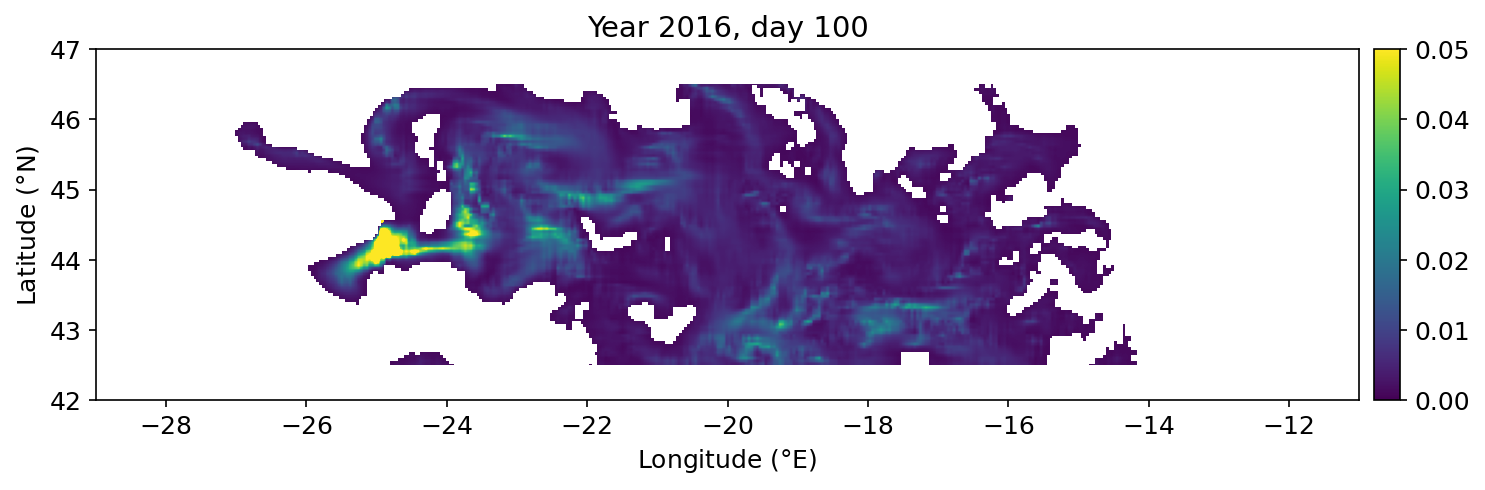
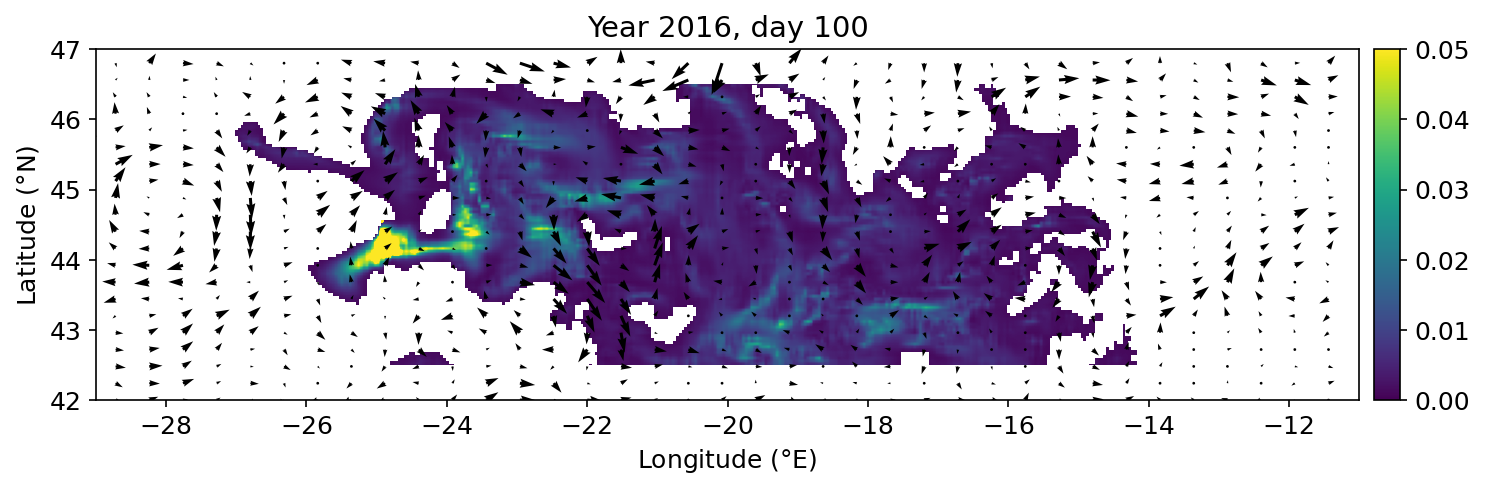
remake images

diff --git a/plotting/plot_image_fine_custom.py b/plotting/plot_image_fine_custom.py
@@ -10,7 +10,6 @@ sys.path.append(os.path.abspath(os.path.join(os.path.dirname(__file__), '..', 'l
 sys.path.append(os.path.abspath(os.path.join(os.path.dirname(__file__), '..', 'data')))
 sys.path.append(os.path.abspath(os.path.join(os.path.dirname(__file__), '..', '')))
 from library.functions import load_data, zipCoords
-
 # === Argument Parsing ===
 if len(sys.argv) != 10:
     print("Usage: python single_day_plot.py <year> <ndays> <dx> <dy> <dt> <nperday> <offset> <frame> <mode>")
@@ -33,18 +32,15 @@ walk_opacity = 10/frame  # Opacity of path lines
 # === Setup ===
 density_resolution = f'{dx}x{dy}_{dt}'
 matrix_cutoff = 0.001
-vmin, vmax = 0, 2
-title = "Only constant terms, day 100"
+vmin, vmax = 0, 0.05
 
 # === Load data ===
-metadata = load_data("pde_onlyDiffusion", year, days, density_resolution, 'metadata')
-paths, start_frames = load_data('discrete_onlyConstant', year, days, f'{walk_nperday}perday', 'allpositions')
+metadata = load_data("pde", year, days, density_resolution, 'metadata')
+paths, start_frames = load_data('discrete', year, days, f'{walk_nperday}perday', 'allpositions')
 processed_paths = [zipCoords(path) for path in paths]
-filename = "figures/special/rw_onlyConstant.png"
-
 
 # === Load matrix for the specific frame ===
-matrix = load_data("pde_onlyDiffusion", year, days, density_resolution, frame)[0]
+matrix = load_data("pde", year, days, density_resolution, frame)[0]
 y_min_display = 42.5
 y_max_display = 46.5
 label_fontsize = 12
@@ -62,7 +58,7 @@ cropped_matrix = matrix[row_start:row_end, :]
 masked_matrix = np.ma.masked_less(cropped_matrix, matrix_cutoff)
 
 # === Setup Plot ===
-fig, ax = plt.subplots(figsize=[10, 3.2], dpi=150)
+fig, ax = plt.subplots(figsize=[10, 2.8], dpi=150)
 ax.set_xlim(offset - 29, offset - 11)
 ax.set_ylim(42, 47)
 
@@ -74,15 +70,13 @@ cmap.set_bad(color='white')
 # === Plot density if requested ===
 if mode in {"pde", "both"}:
     divider = make_axes_locatable(ax)
-    cax = divider.append_axes("right", size="2%", pad=0.1)
+    #cax = divider.append_axes("right", size="2%", pad=0.1)
 
     density_img = ax.imshow(masked_matrix, origin='lower',
                             extent=[offset - 29, offset - 11, y_min_display, y_max_display],
                             aspect=1, vmin=vmin, vmax=vmax, cmap=cmap)
-    cbar = fig.colorbar(density_img, cax=cax)
-    cbar.ax.tick_params(labelsize=tick_fontsize)
-    # ax.plot(offset - 25, 44.5, 'ro')
-
+    # cbar = fig.colorbar(density_img, cax=cax)
+    # cbar.ax.tick_params(labelsize=tick_fontsize)
 
 # === Plot turtles if requested ===
 if mode in {"rw", "both"}:
@@ -106,20 +100,18 @@ if mode in {"rw", "both"}:
     ax.plot(offset - 25, 44.5, 'ro')
 
 # === Final touches ===
-ax.set_title(title, fontsize=title_fontsize)
+ax.set_title(f"Year {year}, day {frame}", fontsize=title_fontsize)
 ax.set_xlabel("Longitude ($\degree$E)", fontsize=label_fontsize)
 ax.set_ylabel("Latitude ($\degree$N)", fontsize=label_fontsize)
 ax.tick_params(labelsize=tick_fontsize)
 
 # === Save plot ===
-plt.tight_layout()
-# if mode == 'both':
-#     plt.savefig(f"figures/combined/{year}day{frame}_{density_resolution}_{mode}.png", bbox_inches='tight')
-# if mode == 'rw':
-#     plt.savefig(f"figures/rw/{year}day{frame}_{density_resolution}_{mode}.png", bbox_inches='tight')
-# if mode == 'pde':
-#     plt.savefig(f"figures/pde/{year}day{frame}_{density_resolution}_{mode}.png", bbox_inches='tight')
-
-plt.savefig(filename, bbox_inches='tight')
+#plt.tight_layout()
+if mode == 'both':
+    plt.savefig(f"figures/combined/{year}day{frame}_{density_resolution}_{mode}.png", bbox_inches='tight')
+if mode == 'rw':
+    plt.savefig(f"figures/rw/{year}day{frame}_{density_resolution}_{mode}.png", bbox_inches='tight')
+if mode == 'pde':
+    plt.savefig(f"figures/pde/{year}day{frame}_{density_resolution}_{mode}.png", bbox_inches='tight')
 
 print(f'Created image {year}day{frame}_{density_resolution}_{mode}.png')

diff --git a/plotting/plot_video_fine.py b/plotting/plot_video_fine.py
@@ -15,8 +15,8 @@ from library.functions import load_data, progressBar, zipCoords
 import time
 
 # Handle arguments
-if len(sys.argv) != 8:
-    print("Usage: python combined_plot_video.py <year> <ndays> <dx> <dy> <dt> <nperday> <offset> <mode>")
+if len(sys.argv) != 9:
+    print("Usage: python plot_video_fine.py <year> <ndays> <dx> <dy> <dt> <nperday> <offset> <mode>")
     sys.exit(1)
 
 year = int(sys.argv[1])
@@ -63,7 +63,7 @@ path_lengths = [len(p[0]) for p in processed_paths]
 max_steps = max(start + len(p[0]) for p, start in zip(processed_paths, start_frames))
 
 # === Setup Figure ===
-fig, ax = plt.subplots(figsize=[10, 4], dpi=150)
+fig, ax = plt.subplots(figsize=[10, 2.7778], dpi=150)
 ax.set_xlim(offset-29, offset-11)
 ax.set_ylim(42, 47)
 
